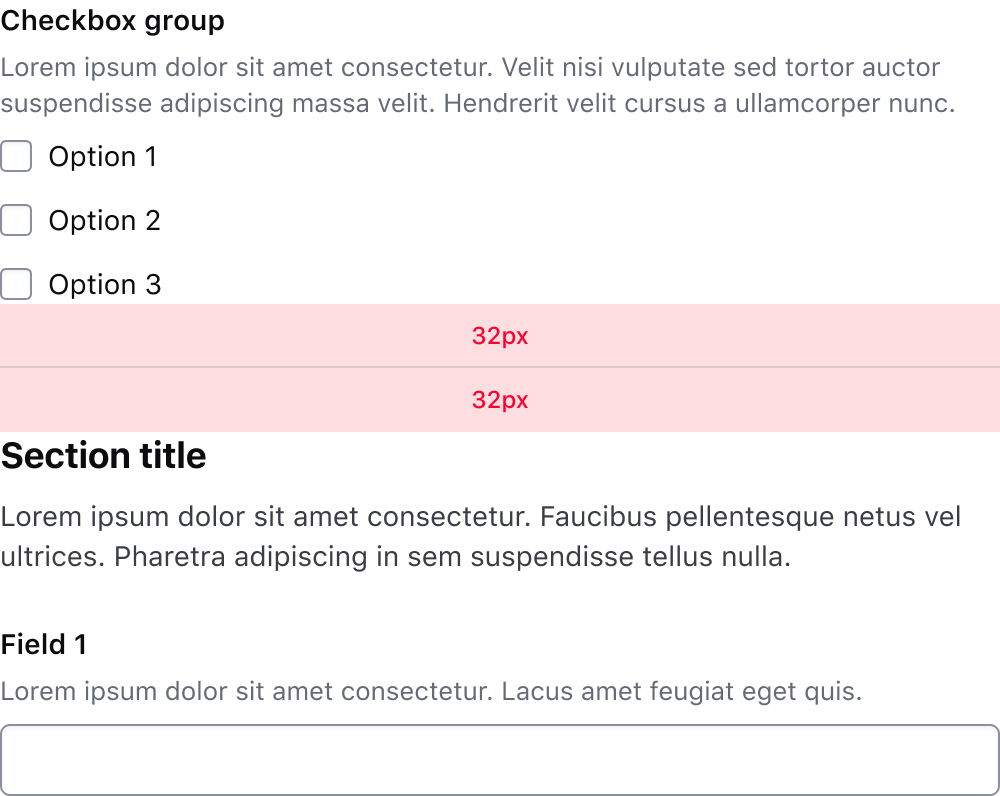
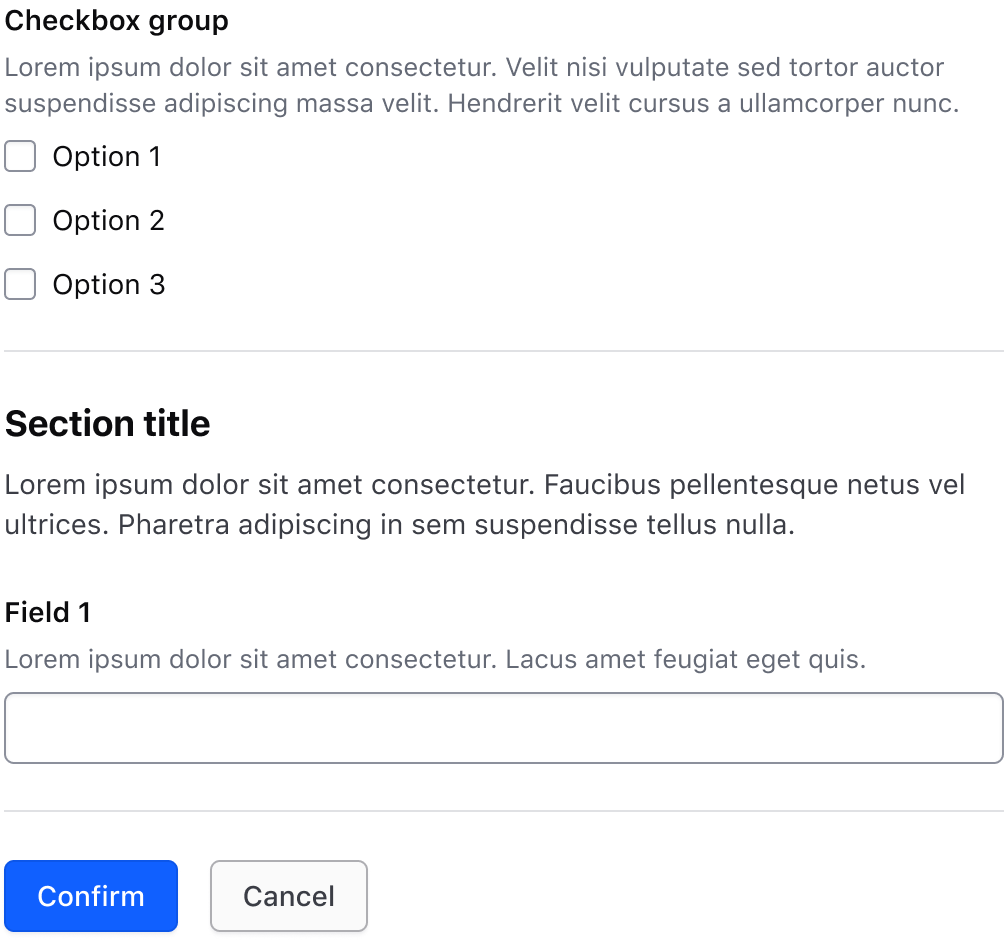
Prose and grammar cleanup based on feedback

diff --git a/website/docs/patterns/form-patterns/partials/guidelines/guidelines.md b/website/docs/patterns/form-patterns/partials/guidelines/guidelines.md
@@ -22,9 +22,9 @@ A **field** describes a form control and label pairing. When displaying multiple
 
 ![Example of multiple fields in a section](/assets/patterns/form-patterns/section-fields.png =450x*)
 
+<!-- TODO
 Fields can be further divided into two types: **text fields** and **data fields**.
 
-<!-- TODO
 #### Text fields
 | Form control | Usage | Examples |
 |--------------|-------|----------|
@@ -69,7 +69,7 @@ Common sets of fields can include:
 - Multi-line address field
 - First and last name
 
-## Alignment
+#### Alignment
 
 Fields organized in a horizontal set should be aligned to the baseline of each element to account for fields with helper text.
 
@@ -79,9 +79,10 @@ Fields organized in a horizontal set should be aligned to the baseline of each e
 
 ### Single-column
 
-If a form uses a single-column layout, consider setting a maximum width on the form; this can generally be best achieved by using a size or unit that is **relative** the page, viewport, or container size. This can commonly be achieved by using a viewport width unit (`vw`), percentage width (e.g., `50%`), or a character unit (`ch`).
+We recommend _most_ forms use a single-column layout as it makes the information easier to parse and reinforces the sequential nature of filling out a form.
 
-We recommend _most_ forms use a single column layout as it makes the information within the form easier to parse for the user and reinforces the sequential nature of filling out a form.
+If a form uses a single-column layout, consider setting a maximum width on the form; this can be achieved by using a size or unit **relative** to the page, viewport, or container size, e.g., viewport width unit (`vw`), percentage width (`50%`), or a character unit (`ch`).
+
 
 !!! Info
 
@@ -130,9 +131,7 @@ In sections consisting of multiple blocks of text, use an 8px vertical gap betwe
 
 Text elements within a form should use logical, step-based sizing to reinforce hierarchy within sections and the form itself. While specifics around type hierarchy should be determined at the application level, adhering to these guidelines will help establish consistency at the page level and when constrained within another element or component.
 
-## Actions
-
-### Button sets
+## Button sets
 
 Organize buttons based on the [ButtonSet](/components/button-set) guidelines, e.g., using a 16px horizontal gap between buttons.
 
@@ -213,22 +212,25 @@ Include a 24px gap above and below to separate the divider from the surrounding 
 
 !!! Dont
 
-Don’t use dividers at the end of the last section between the fields and the button set or actions. Instead, use 32px of space.
+Don’t use dividers at the end of the last section between the fields and the button set or actions.
 
 ![Spacing using dividers](/assets/patterns/form-patterns/divider-spacing-dont.png =500x*)
+!!!
+
+!!! Do
+
+Instead, use the section spacing value of 32px.
+
+![Spacing between trailing actions](/assets/patterns/form-patterns/divider-spacing-actions-do.png =500x*)
 !!!
 
 #### Multiple steps or pages
 
 Consider breaking the form into multiple steps or pages for exceedingly long and complex forms (e.g., creating a cluster). For multi-step forms, use a [Stepper](/components/stepper-indicator) to indicate status and the user’s location within the form.
 
-#### Multiple steps or pages
-
-For exceedingly long, complex forms (e.g., creating a cluster), consider breaking the form into multiple steps or pages. A [Stepper](/components/stepper-indicator) can be used to annotate status and location in a multi-step form.
-
 ### Width
 
-The width of a form and the fields it contains is largely dependent on the context the form is in, but adhering to these high-level guidelines can make a complex form approachable and introduce consistency in the UX.\
+The width of a form and the fields it contains are largely dependent on the context the form is in, but adhering to these high-level guidelines can make a complex form approachable and introduce consistency in the UX.
 
 #### Field width
 
@@ -238,14 +240,7 @@ Generally, the width of a field should be wide enough to account for the estimat
 
 As the viewport shrinks, the form width should expand relative to the viewport width, eventually occupying the entire width of the viewport or page. Horizontal sets of fields that result in a multi-column layout should stack vertically as the viewport shrinks.
 
-## Progressive disclosure
-
-Users want power but also simplicity. Progressive disclosure refers to only displaying the most important information (or elements of a form) and conditionally showing additional fields depending on:
-
-1. the input state of other fields
-2. if more complex settings are requested by the user.
-
-## Required optional
+## Required and optional
 
 Displaying what fields are required or optional can help users submit a form free of errors, but can also add visual weight the form.
 

diff --git a/website/docs/patterns/form-patterns/index.md b/website/docs/patterns/form-patterns/index.md
@@ -5,7 +5,7 @@ caption: Guidelines for delivering user-centric forms comprised of Helios form c
 status: released
 previewImage: assets/illustrations/patterns/form-patterns.jpg
 navigation:
-  keywords: ['form', 'patterns', 'patterns', 'fieldset']
+  keywords: ['spacing', 'validation', 'legend', 'fieldset']
 ---
 
 <section data-tab="Guidelines">
